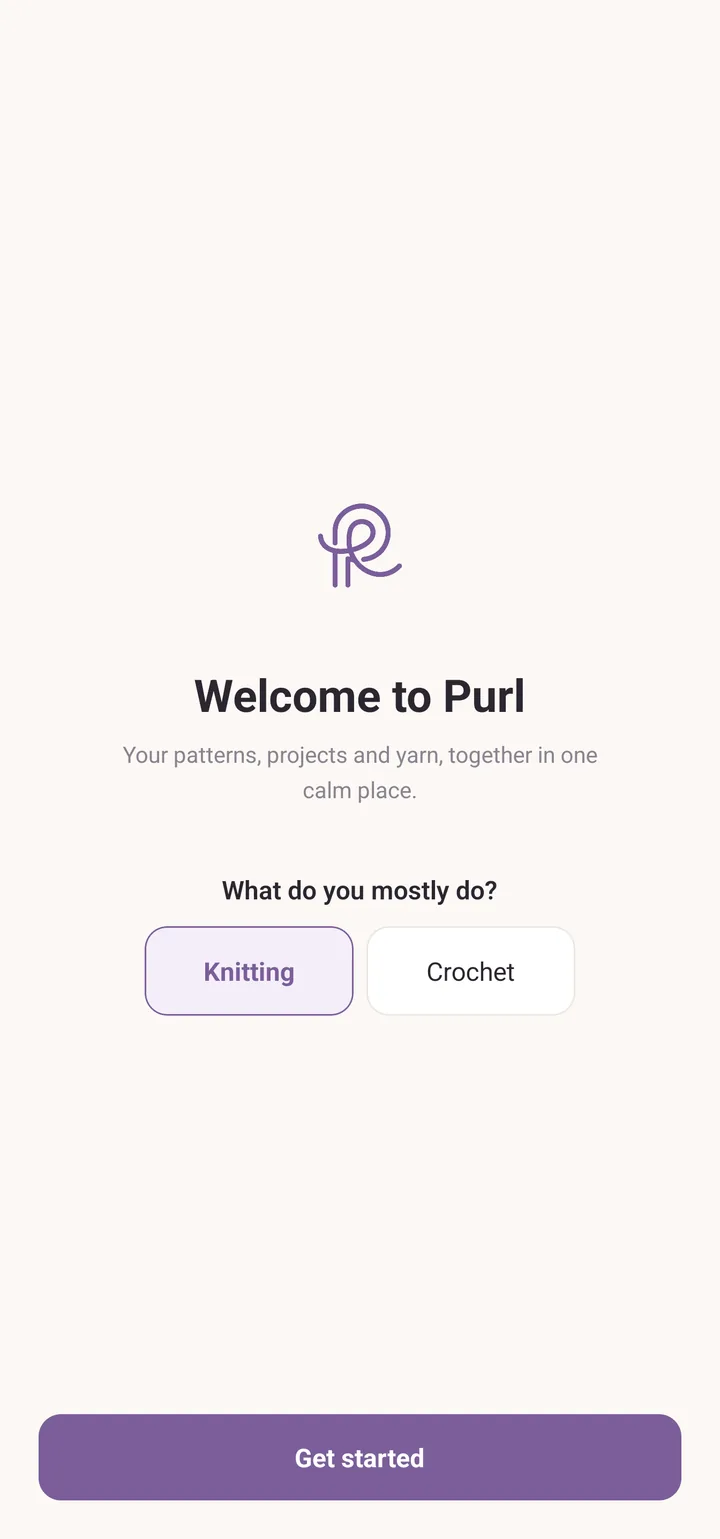
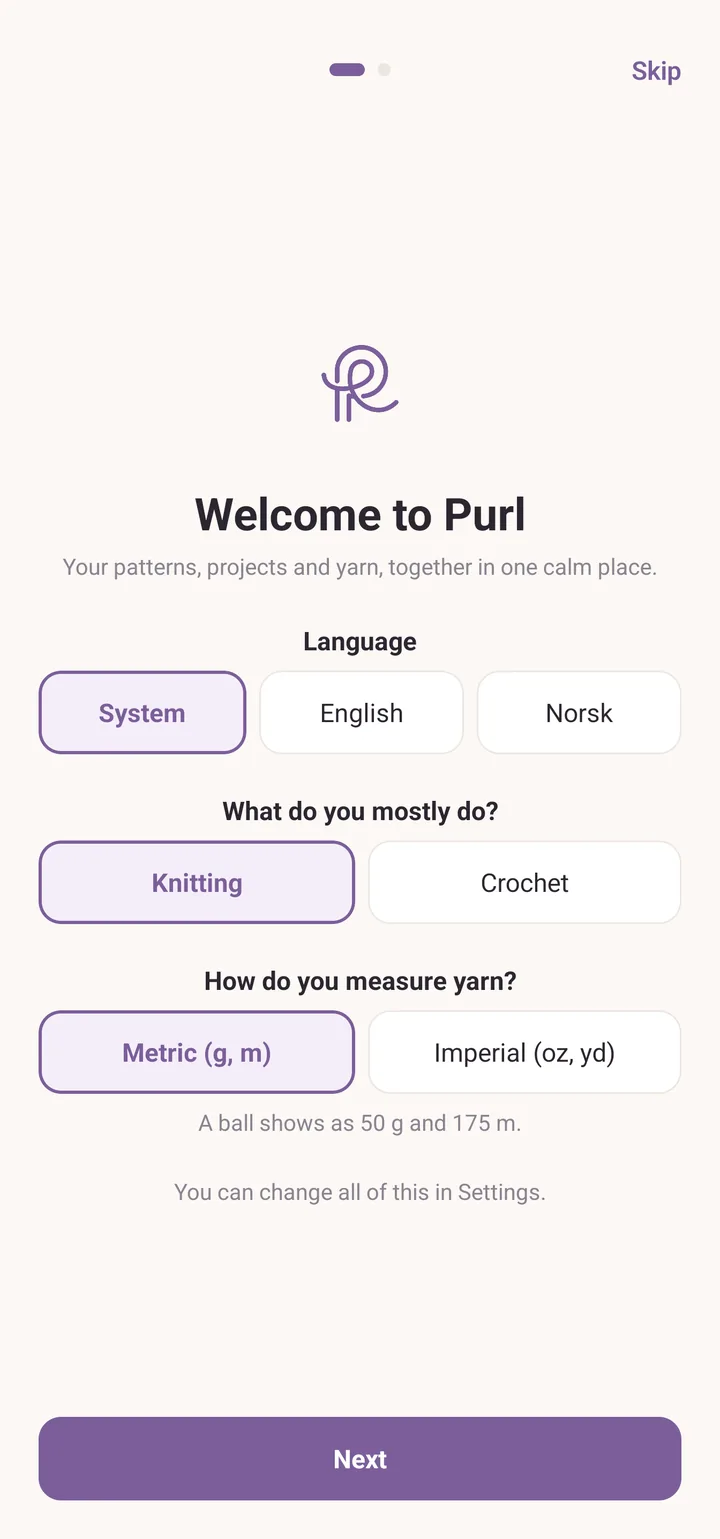
site: rebuild from Purl content [skip ci]

diff --git a/guide/getting-started.html b/guide/getting-started.html
@@ -63,7 +63,7 @@ patterns and new projects start in, so a crocheter is not handed
 knitting language on every new screen. You can change it later in
 Settings under <strong>Craft and units</strong>, and any single pattern or project
 can be the other craft.</p>
-<figure class="guidefig"><img src="./images/gs-welcome.webp" alt="The welcome screen with the knitting and crochet choice" width="720" height="1539" style="--w:720;--h:1539" loading="lazy" decoding="async" /><figcaption>Pick the craft you do most. It only sets the starting point.</figcaption></figure>
+<figure class="guidefig"><img src="./images/gs-welcome.webp" alt="The welcome screen with language, knitting or crochet, and how you measure yarn" width="720" height="1539" style="--w:720;--h:1539" loading="lazy" decoding="async" /><figcaption>Pick the craft you do most. It only sets the starting point.</figcaption></figure>
 <h2 id="the-four-tabs">The four tabs</h2>
 <p>Across the bottom of the screen:</p>
 <ul>
